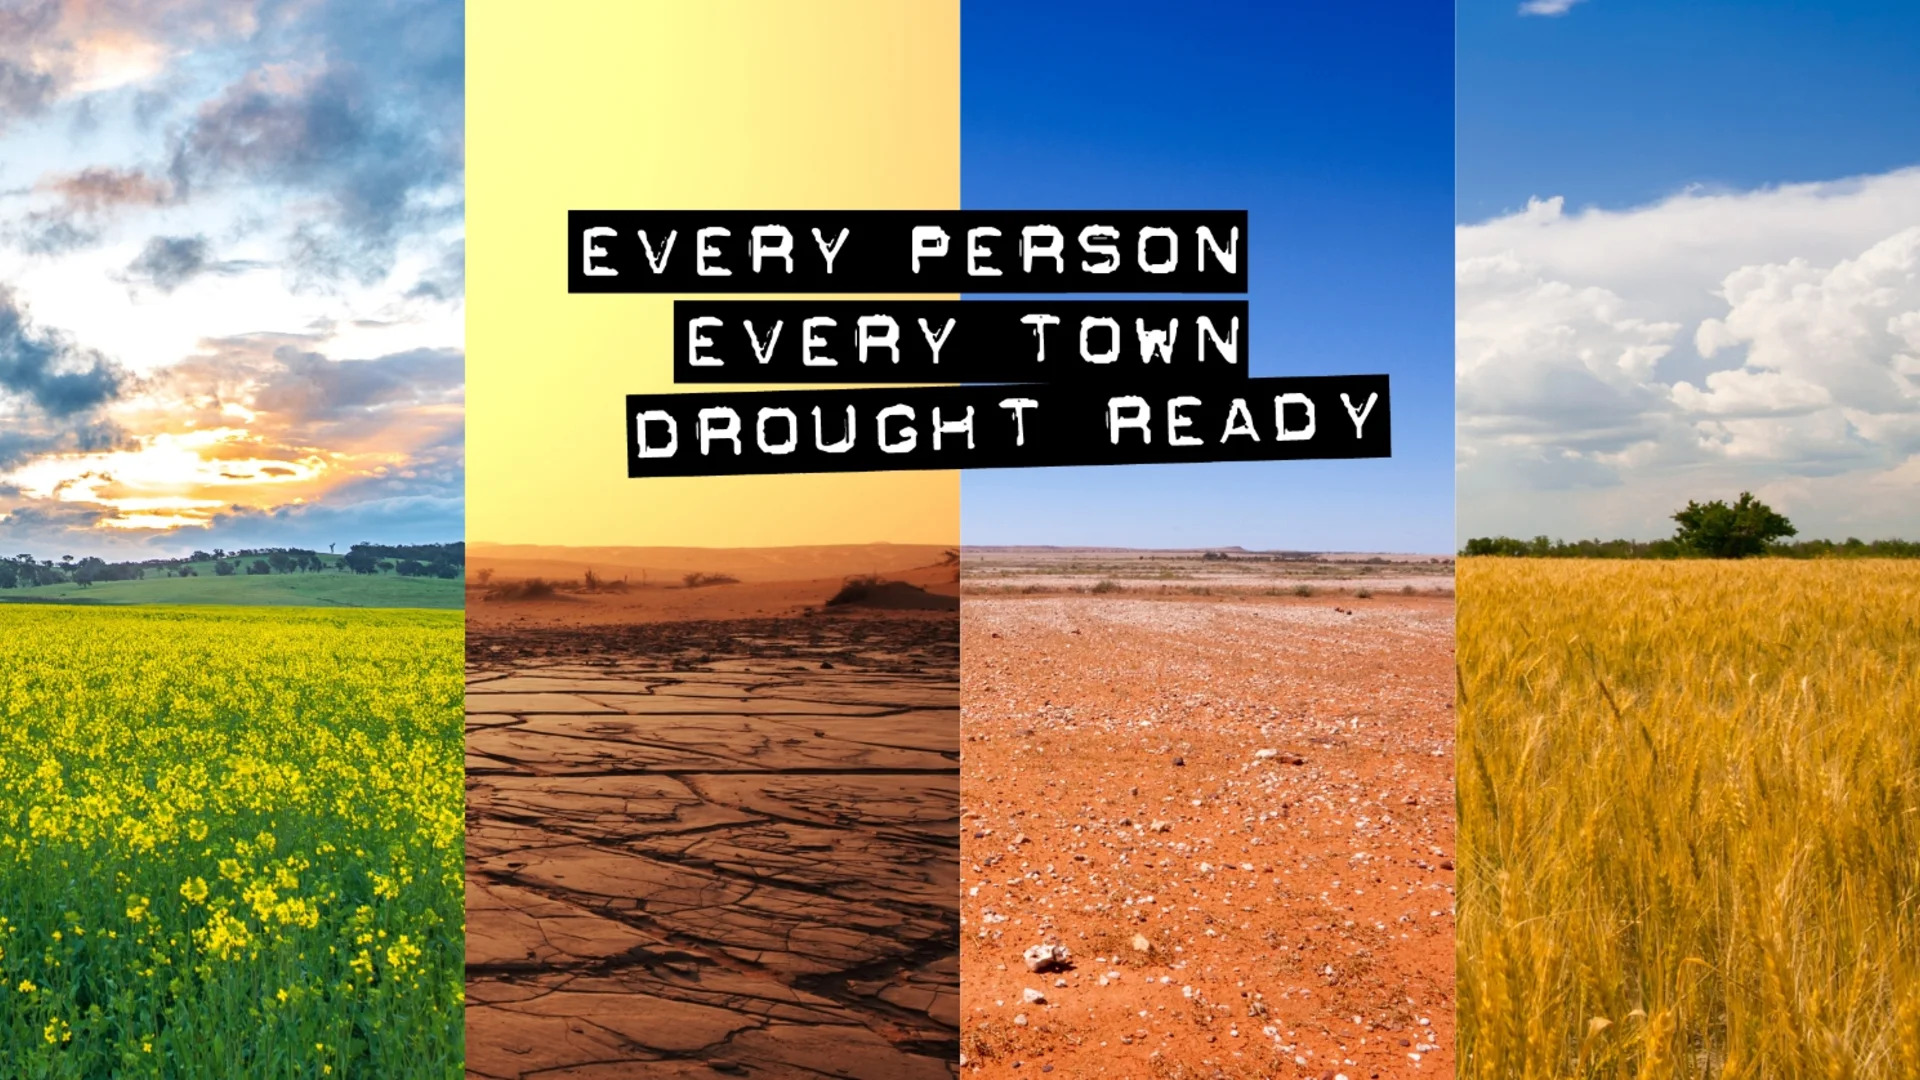
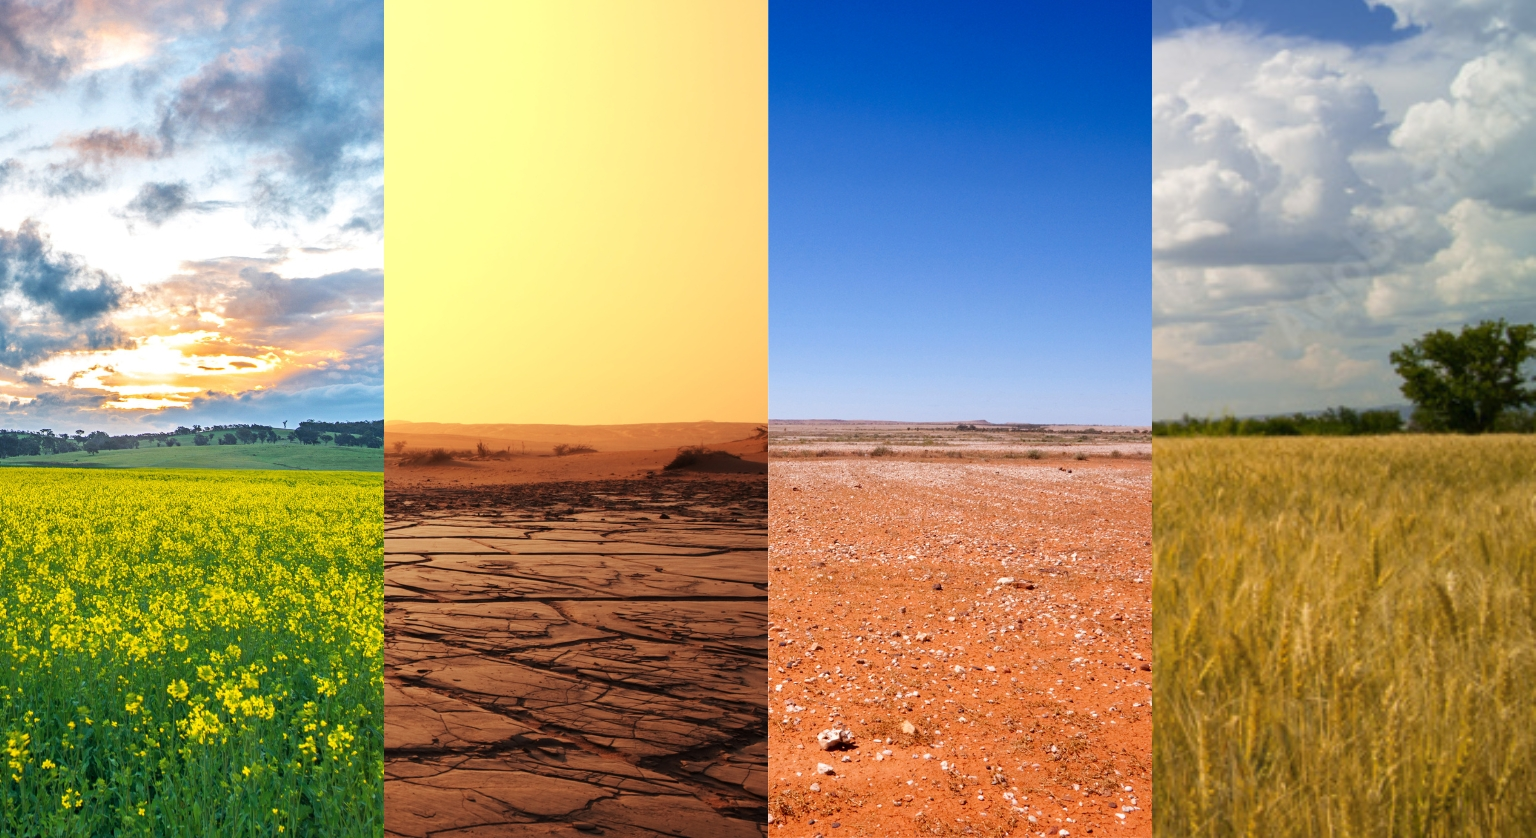
feat: Streamline copy with dot points and fix footer overlap
- Convert Why Involved section to dot point format for better readability
- Streamline participation cards with concise bullet points
- Fix carousel ratios using viewport units for consistent display
- Resolve footer overlap with sticky CTA bar
- Unify blue color scheme across footer and sticky bar
- Remove redundant CTA buttons from participation cards

diff --git a/src/components/sections/participation-split.tsx b/src/components/sections/participation-split.tsx
@@ -11,21 +11,33 @@ export function ParticipationSplit() {
       <div className="container">
         <div className="grid lg:grid-cols-2 gap-8 items-stretch">
           <Card className="bg-white/95 backdrop-blur-xl border border-gray-200/30 text-gray-900 shadow-2xl overflow-hidden">
-            <CardContent className="p-8 grid gap-6 md:grid-cols-2 items-center">
+            <CardContent className="p-6 grid gap-6 md:grid-cols-2 items-center">
               <div className="space-y-4">
-                <h3 className="font-headline text-2xl md:text-3xl font-bold">
+                <h3 className="font-headline text-xl md:text-2xl font-bold">
                   Take the Survey
                 </h3>
-                <p className="opacity-90">
-                  10–15 minutes, mobile-friendly. Skip any question. Your answers are anonymous.
-                </p>
-                <Button asChild size="lg" className="bg-gray-900 text-white border border-gray-700 hover:bg-gray-800 active:bg-gray-950 transition-all duration-300 hover:scale-105 hover:-translate-y-0.5 shadow-lg">
-                  <Link href={siteConfig.urls.qualtricsSurvey} target="_blank" rel="noopener" data-event="cta_survey_click">
-                    Take the Survey <ArrowRight className="ml-2" />
-                  </Link>
-                </Button>
+                <div className="space-y-2">
+                  <div className="flex items-start">
+                    <span className="text-lifeline-blue mr-3 mt-1">•</span>
+                    <p className="text-sm text-gray-600 leading-relaxed flex-1">
+                      10–15 minutes, mobile-friendly
+                    </p>
+                  </div>
+                  <div className="flex items-start">
+                    <span className="text-lifeline-blue mr-3 mt-1">•</span>
+                    <p className="text-sm text-gray-600 leading-relaxed flex-1">
+                      Skip any question, answers anonymous
+                    </p>
+                  </div>
+                  <div className="flex items-start">
+                    <span className="text-lifeline-blue mr-3 mt-1">•</span>
+                    <p className="text-sm text-gray-600 leading-relaxed flex-1">
+                      Share your drought experience
+                    </p>
+                  </div>
+                </div>
               </div>
-                <div className="relative h-48 w-full rounded-md overflow-hidden" suppressHydrationWarning>
+              <div className="relative h-56 w-full rounded-md overflow-hidden" suppressHydrationWarning>
                 <Image
                   src="/survey-800x600.webp"
                   alt="Person completing a short survey on a tablet at a rural kitchen table."
@@ -39,21 +51,33 @@ export function ParticipationSplit() {
           </Card>
 
           <Card className="bg-white/95 backdrop-blur-xl border border-gray-200/30 text-gray-900 shadow-2xl overflow-hidden">
-             <CardContent className="p-8 grid gap-6 md:grid-cols-2 items-center">
+             <CardContent className="p-6 grid gap-6 md:grid-cols-2 items-center">
                 <div className="space-y-4">
-                    <h3 className="font-headline text-2xl md:text-3xl font-bold">
+                    <h3 className="font-headline text-xl md:text-2xl font-bold">
                       Join a Conversation
                     </h3>
-                    <p className="opacity-90">
-                    Free 90-minute session with 8–12 locals in your LGA. Light refreshments.
-                    </p>
-                    <Button asChild size="lg" className="bg-white text-gray-600 border-2 border-gray-600 hover:shadow-lg hover:shadow-gray-600/20 active:bg-gray-50 transition-all duration-300 hover:scale-105 hover:-translate-y-0.5">
-                      <Link href={siteConfig.urls.humanitixRegister} target="_blank" rel="noopener" data-event="cta_register_click">
-                          Join a Conversation <ArrowRight className="ml-2" />
-                      </Link>
-                    </Button>
+                    <div className="space-y-2">
+                      <div className="flex items-start">
+                        <span className="text-lifeline-blue mr-3 mt-1">•</span>
+                        <p className="text-sm text-gray-600 leading-relaxed flex-1">
+                          Free 90-minute session
+                        </p>
+                      </div>
+                      <div className="flex items-start">
+                        <span className="text-lifeline-blue mr-3 mt-1">•</span>
+                        <p className="text-sm text-gray-600 leading-relaxed flex-1">
+                          8–12 locals in your LGA
+                        </p>
+                      </div>
+                      <div className="flex items-start">
+                        <span className="text-lifeline-blue mr-3 mt-1">•</span>
+                        <p className="text-sm text-gray-600 leading-relaxed flex-1">
+                          Light refreshments provided
+                        </p>
+                      </div>
+                    </div>
                 </div>
-                <div className="relative h-48 w-full rounded-md overflow-hidden" suppressHydrationWarning>
+                <div className="relative h-56 w-full rounded-md overflow-hidden" suppressHydrationWarning>
                      <Image
                         src="/conversation-800x600.webp"
                         alt="Small group conversation in a community hall with people seated in a circle."

diff --git a/src/components/sections/why-involved.tsx b/src/components/sections/why-involved.tsx
@@ -13,22 +13,31 @@ gsap.registerPlugin(ScrollTrigger);
 const features = [
   {
     icon: <UserCheck className="h-12 w-12 text-lifeline-blue" />,
-    title: "Share Your Story, Shape Our Future",
-    description: "Your unique drought experience and insights will guide future local programs and services built specifically for rural life—not copied from the city.",
-    details: "Join 8–12 locals in relaxed, open discussions tailored to your area. Your voice matters in shaping support that truly works for our communities.",
+    title: "Share Your Story",
+    points: [
+      "Your drought experience guides local programs",
+      "Built specifically for rural life",
+      "Not copied from city solutions"
+    ],
   },
   {
     icon: <ShieldCheck className="h-12 w-12 text-lifeline-blue" />,
     title: "Safe & Confidential",
-    description: "Sessions are audio-recorded but all comments are de-identified to protect your privacy. Your information is securely stored and only accessed by authorized, trauma-informed Lifeline staff.",
-    details: "We create a safe space where you can speak openly about your experiences, knowing your privacy is protected.",
+    points: [
+      "Sessions are recorded but de-identified",
+      "Only authorized Lifeline staff access information",
+      "Your privacy is protected"
+    ],
     hasPrivacyLink: true,
   },
   {
     icon: <Gift className="h-12 w-12 text-lifeline-blue" />,
     title: "Quick & Rewarding",
-    description: "Just 90 minutes of your time can make a lasting difference. Sessions are free to attend with light refreshments provided.",
-    details: "Plus, every participant enters the draw for 1 of 5 × $100 gift cards. Transport support is available on request to ensure everyone can participate. Your contribution is valued and appreciated.",
+    points: [
+      "90 minutes of your time",
+      "Free sessions with refreshments",
+      "Enter to win 1 of 5 × $100 gift cards"
+    ],
   },
 ];
 
@@ -83,28 +92,32 @@ export function WhyInvolved() {
               data-why-card
               className="text-center border-2 border-gray-100 shadow-lg transition-all duration-300 will-change-transform hover:-translate-y-2 hover:shadow-xl hover:border-lifeline-blue/20 focus-within:-translate-y-2 focus-within:shadow-xl focus-within:border-lifeline-blue/20"
             >
-              <CardHeader className="p-10">
-                <div className="flex justify-center mb-8">
+              <CardHeader className="p-8">
+                <div className="flex justify-center mb-6">
                   <div className="p-4 bg-lifeline-blue/10 rounded-full">
                     {feature.icon}
                   </div>
                 </div>
-                <CardTitle className="font-headline text-2xl mb-6 text-ink leading-tight">
+                <CardTitle className="font-headline text-xl mb-4 text-ink leading-tight">
                   {feature.title}
                 </CardTitle>
-                <CardDescription className="text-base leading-relaxed mb-4 text-gray-600">
-                  {feature.description}
-                </CardDescription>
-                <CardDescription className="text-sm leading-relaxed text-gray-500">
-                  {feature.details}
-                </CardDescription>
+                <div className="text-left space-y-2">
+                  {feature.points.map((point, pointIndex) => (
+                    <div key={pointIndex} className="flex items-start">
+                      <span className="text-lifeline-blue mr-3 mt-1">•</span>
+                      <p className="text-sm text-gray-600 leading-relaxed flex-1">
+                        {point}
+                      </p>
+                    </div>
+                  ))}
+                </div>
                 {feature.hasPrivacyLink && (
                   <div className="mt-6 pt-4 border-t border-gray-100">
                     <Link 
                       href="https://lifelinecentralwest.org.au/wp-content/uploads/2025/03/RCS_-Privacy-Policy-2025-v2.0.pdf"
                       target="_blank"
                       rel="noopener noreferrer"
-                      className="inline-flex items-center gap-2 text-sm text-lifeline-blue hover:text-lifeline-blue/80 font-medium transition-colors"
+                      className="inline-flex items-center gap-2 text-xs text-lifeline-blue hover:text-lifeline-blue/80 font-medium transition-colors"
                     >
                       Learn more about our privacy policy
                       <ExternalLink className="h-3 w-3" />

diff --git a/src/components/sections/hero.tsx b/src/components/sections/hero.tsx
@@ -20,11 +20,11 @@ export function Hero() {
       position -= speed;
       
       // Reset position when we've scrolled one full image width
-      if (position <= -50) {
+      if (position <= -100) {
         position = 0;
       }
       
-      carousel.style.transform = `translateX(${position}%)`;
+      carousel.style.transform = `translateX(${position}vw)`;
       requestAnimationFrame(animate);
     };
     
@@ -35,8 +35,8 @@ export function Hero() {
     <section className="relative h-dvh min-h-[600px] flex flex-col text-primary-foreground overflow-hidden">
       {/* Single Looping Hero Background */}
       <div className="absolute inset-0 -z-20 overflow-hidden" id="hero-bg">
-        <div className="flex w-[200%] h-full" id="hero-carousel">
-          <picture className="w-1/2 h-full">
+        <div className="flex h-full" id="hero-carousel" style={{ width: '200vw' }}>
+          <picture className="w-screen h-full flex-shrink-0">
             <source srcSet="/hero-new.webp" type="image/webp" />
             <img
               src="/hero-new.jpg"
@@ -45,7 +45,7 @@ export function Hero() {
               loading="eager"
             />
           </picture>
-          <picture className="w-1/2 h-full">
+          <picture className="w-screen h-full flex-shrink-0">
             <source srcSet="/hero-new.webp" type="image/webp" />
             <img
               src="/hero-new.jpg"
@@ -74,19 +74,20 @@ export function Hero() {
       </div>
 
 
-      {/* High Contrast Sticky CTA Bar */}
-      <div className="fixed bottom-0 left-0 right-0 bg-gray-900/95 backdrop-blur-xl border-t border-gray-700/50 py-4 sm:py-5 z-50 shadow-2xl">
+      {/* Sticky CTA Bar – Lifeline Blue (no border gap) */}
+      <div className="fixed bottom-0 left-0 right-0 bg-lifeline-blue py-4 sm:py-5 z-50 shadow-2xl">
         <div className="container mx-auto px-4 text-center">
-          <p className="text-gray-100 text-sm md:text-base font-medium mb-4">
+          <p className="text-white/95 text-sm md:text-base font-medium mb-4">
             You've lived it — now help us plan for the next drought.
           </p>
           <div className="flex flex-col sm:flex-row gap-3 justify-center items-center max-w-md mx-auto">
-            <Button asChild size="lg" className="bg-white text-gray-900 border border-gray-200 hover:bg-gray-50 hover:border-gray-300 active:bg-gray-100 font-semibold text-base px-6 py-3 rounded-xl shadow-lg transition-all duration-300 hover:scale-105 hover:-translate-y-0.5 w-full sm:w-auto">
+            {/* Consistent button styling (Apple-glass inspired) */}
+            <Button asChild size="lg" className="bg-white text-lifeline-blue border-2 border-white/80 hover:bg-white/95 active:bg-white/90 font-semibold text-base px-6 py-3 rounded-xl shadow-lg transition-all duration-300 hover:scale-105 hover:-translate-y-0.5 w-full sm:w-auto">
               <Link href={siteConfig.urls.qualtricsSurvey} target="_blank" rel="noopener" data-event="cta_survey_click">
                 Take the Survey <ArrowRight className="ml-2 w-4 h-4" />
               </Link>
             </Button>
-            <Button asChild size="lg" className="bg-gray-100 text-gray-900 border border-gray-300 hover:bg-white hover:border-gray-400 active:bg-gray-50 font-semibold text-base px-6 py-3 rounded-xl shadow-lg transition-all duration-300 hover:scale-105 hover:-translate-y-0.5 w-full sm:w-auto">
+            <Button asChild size="lg" className="bg-white text-lifeline-blue border-2 border-white/80 hover:bg-white/95 active:bg-white/90 font-semibold text-base px-6 py-3 rounded-xl shadow-lg transition-all duration-300 hover:scale-105 hover:-translate-y-0.5 w-full sm:w-auto">
               <Link href={siteConfig.urls.humanitixRegister} target="_blank" rel="noopener" data-event="cta_register_click">
                 Join a Conversation <ArrowRight className="ml-2 w-4 h-4" />
               </Link>

diff --git a/src/components/layout/footer-callout.tsx b/src/components/layout/footer-callout.tsx
@@ -3,7 +3,7 @@ import { Mail, Phone } from "lucide-react";
 
 export function FooterCallout() {
   return (
-    <footer id="contact" className="bg-lifeline-blue text-primary-foreground">
+    <footer id="contact" className="bg-lifeline-blue text-primary-foreground mb-32">
       <div className="container py-12 text-center">
         <h2 className="font-headline text-2xl md:text-3xl font-bold">
           Questions or need help?

diff --git a/src/app/page.tsx b/src/app/page.tsx
@@ -23,8 +23,6 @@ export default function Home() {
         <ParticipationSplit />
       </main>
       <FooterCallout />
-      <div className="h-32"></div>
-
     </div>
   );
 }
